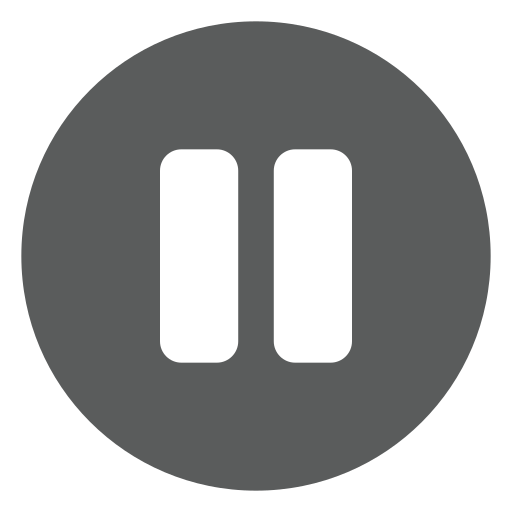
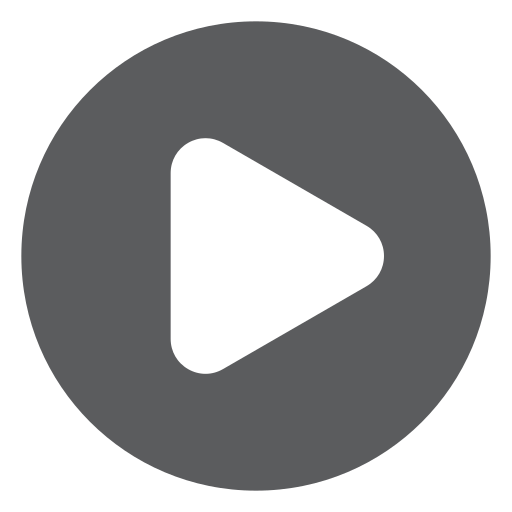
Changes to ui, truncating title

Changed region(s): [[0.3125, 0.25, 0.75, 0.75]]

diff --git a/styles/player.scss b/styles/player.scss
@@ -24,6 +24,17 @@
   font-weight: 500;
 }
 
+.player-song-name {
+  font-size: 17px;
+  padding: 5px 0px;
+  font-weight: 500;
+}
+
+.player-artist-name {
+  font-size: small;
+  font-weight: 400;
+}
+
 .player-progress-bar {
   padding: 10px 15px;
   margin: 1px 0px;
@@ -69,6 +80,10 @@
 
 .pause {
   background-image: url("./assets/player/pause.png");
+}
+
+.play {
+  background-image: url("./assets/player/play.png");
 }
 
 .next {

diff --git a/themes/variables.scss b/themes/variables.scss
@@ -1,7 +1,7 @@
-$background-color: #1c1e29;
-$border-color: #181a22;
-$text-color: #727581;
-$contact-color: #9093a1;
+$background-color: #3a2e2b;
+$border-color: #322724;
+$text-color: #a18b85;
+$contact-color: #b59c95;
 
 $profile-background-color: $background-color;
 $profile-border-color: $border-color;
